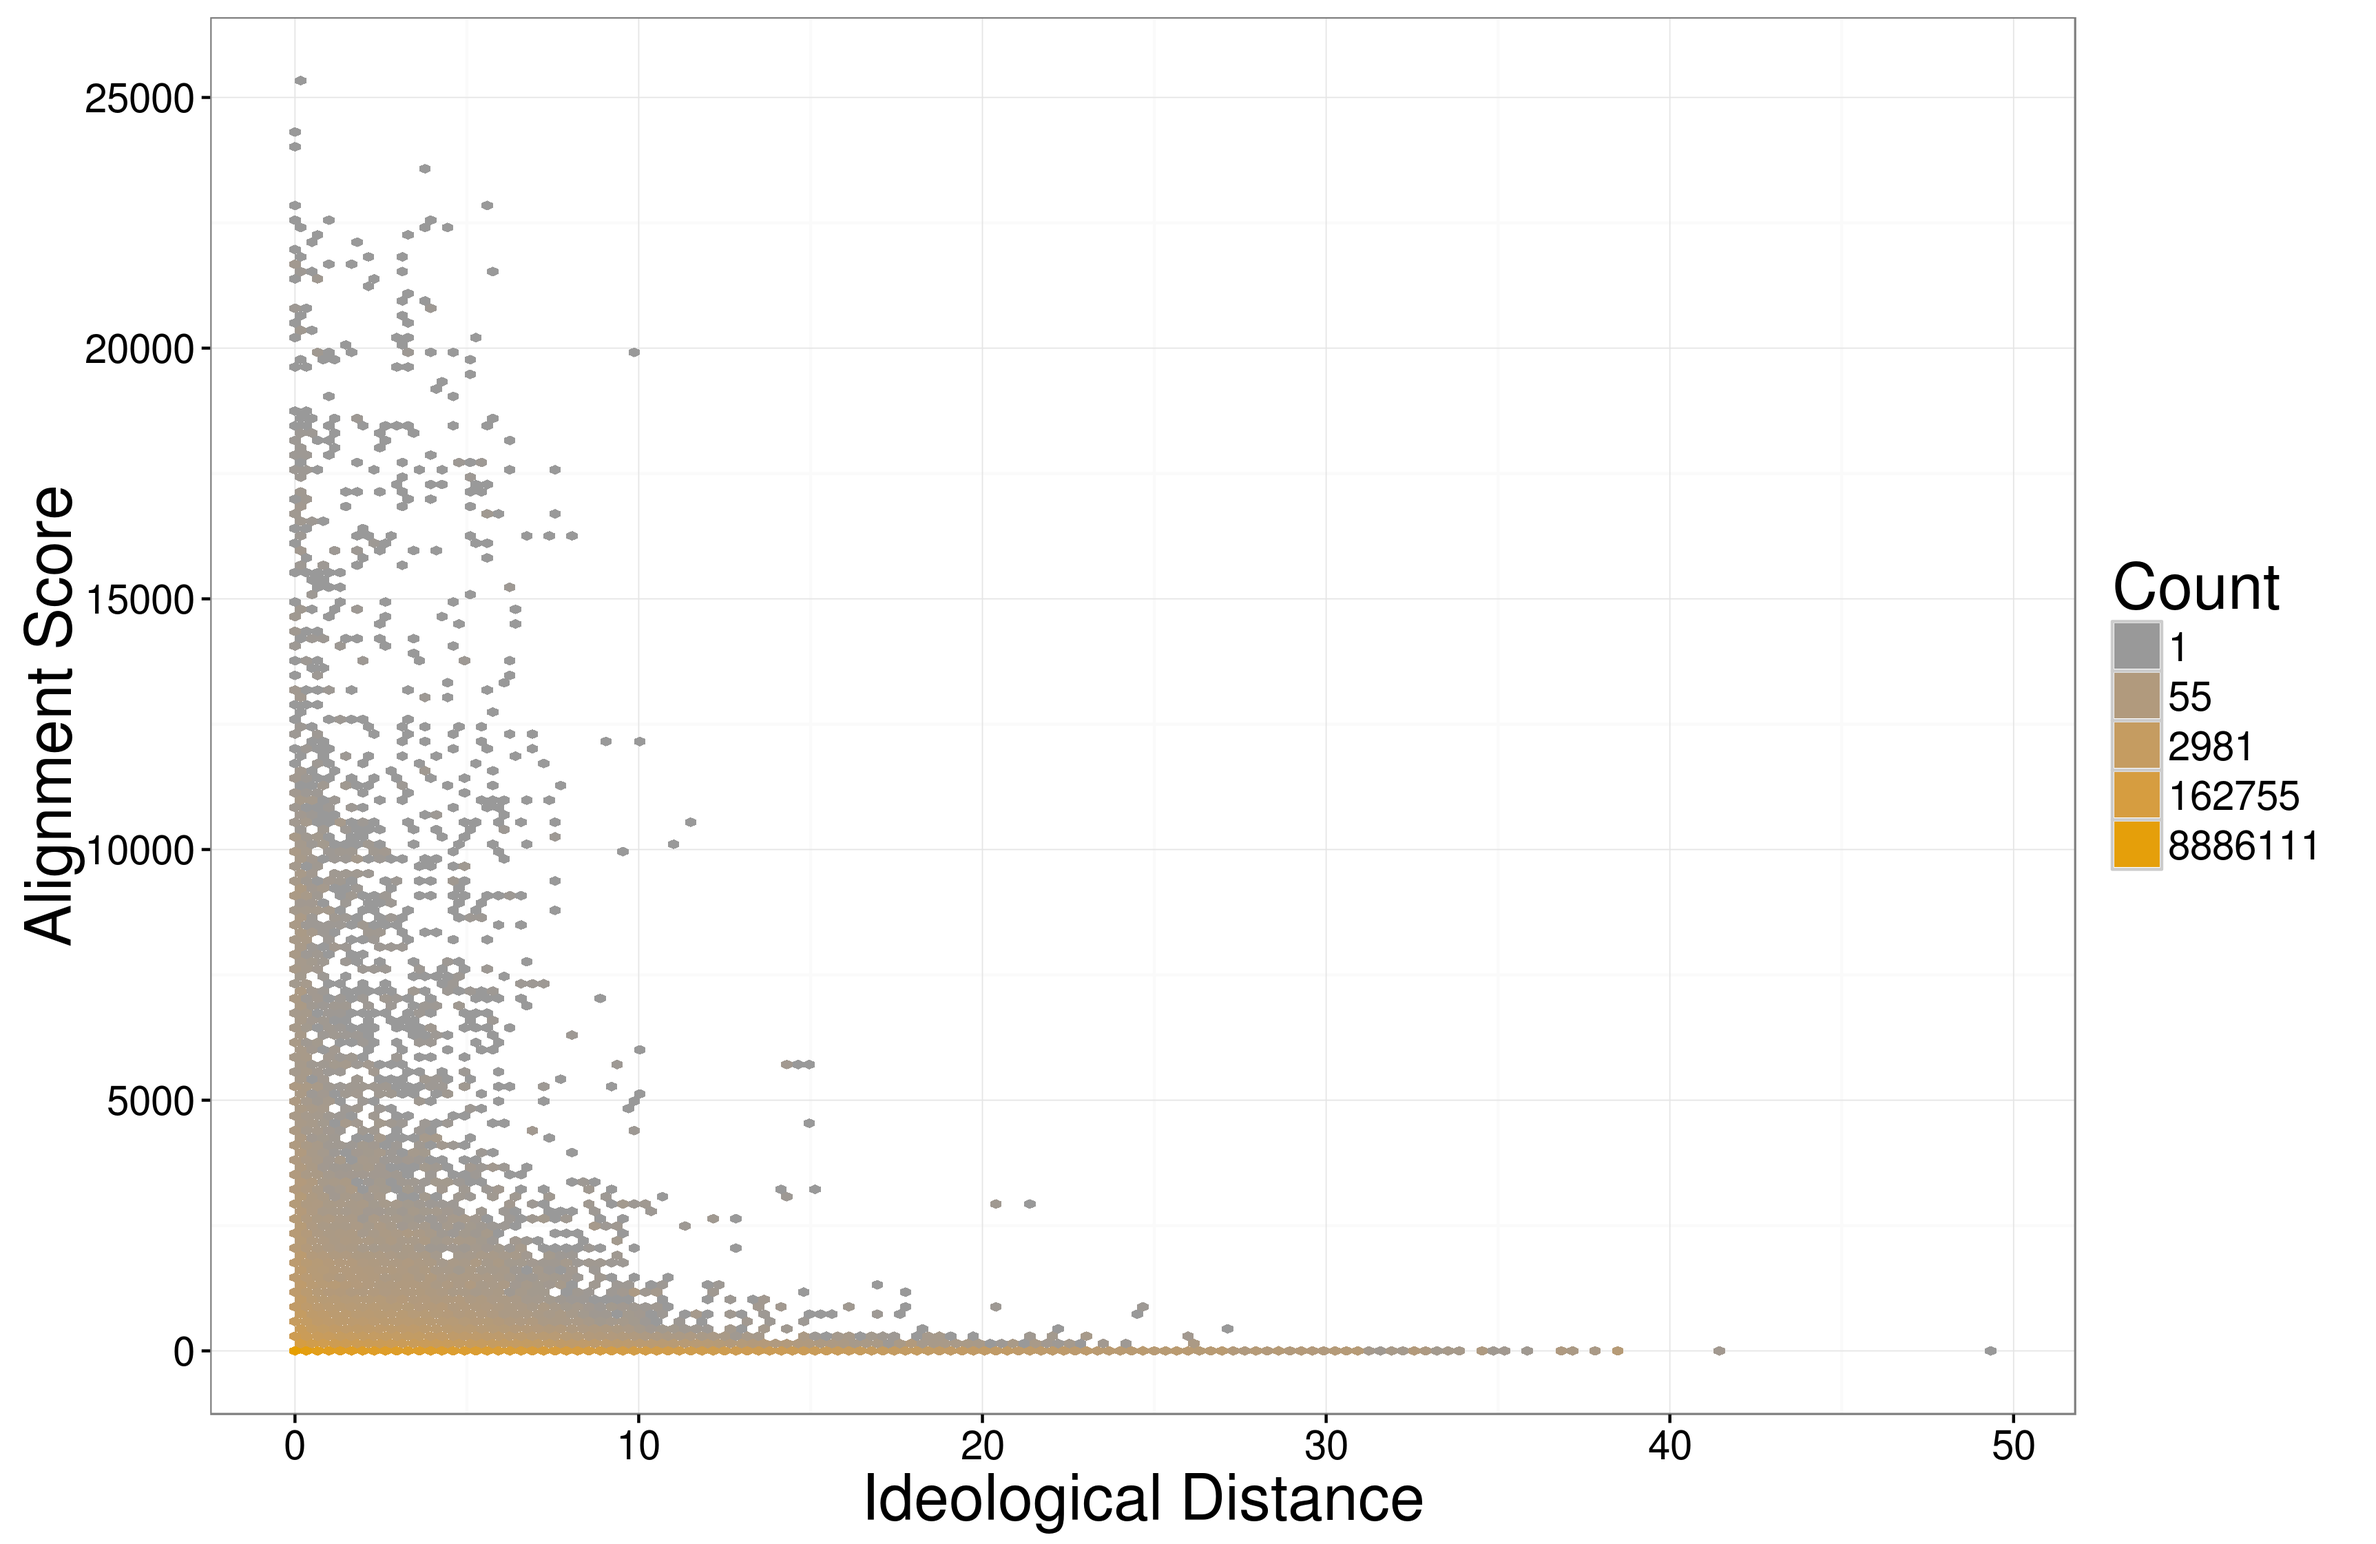
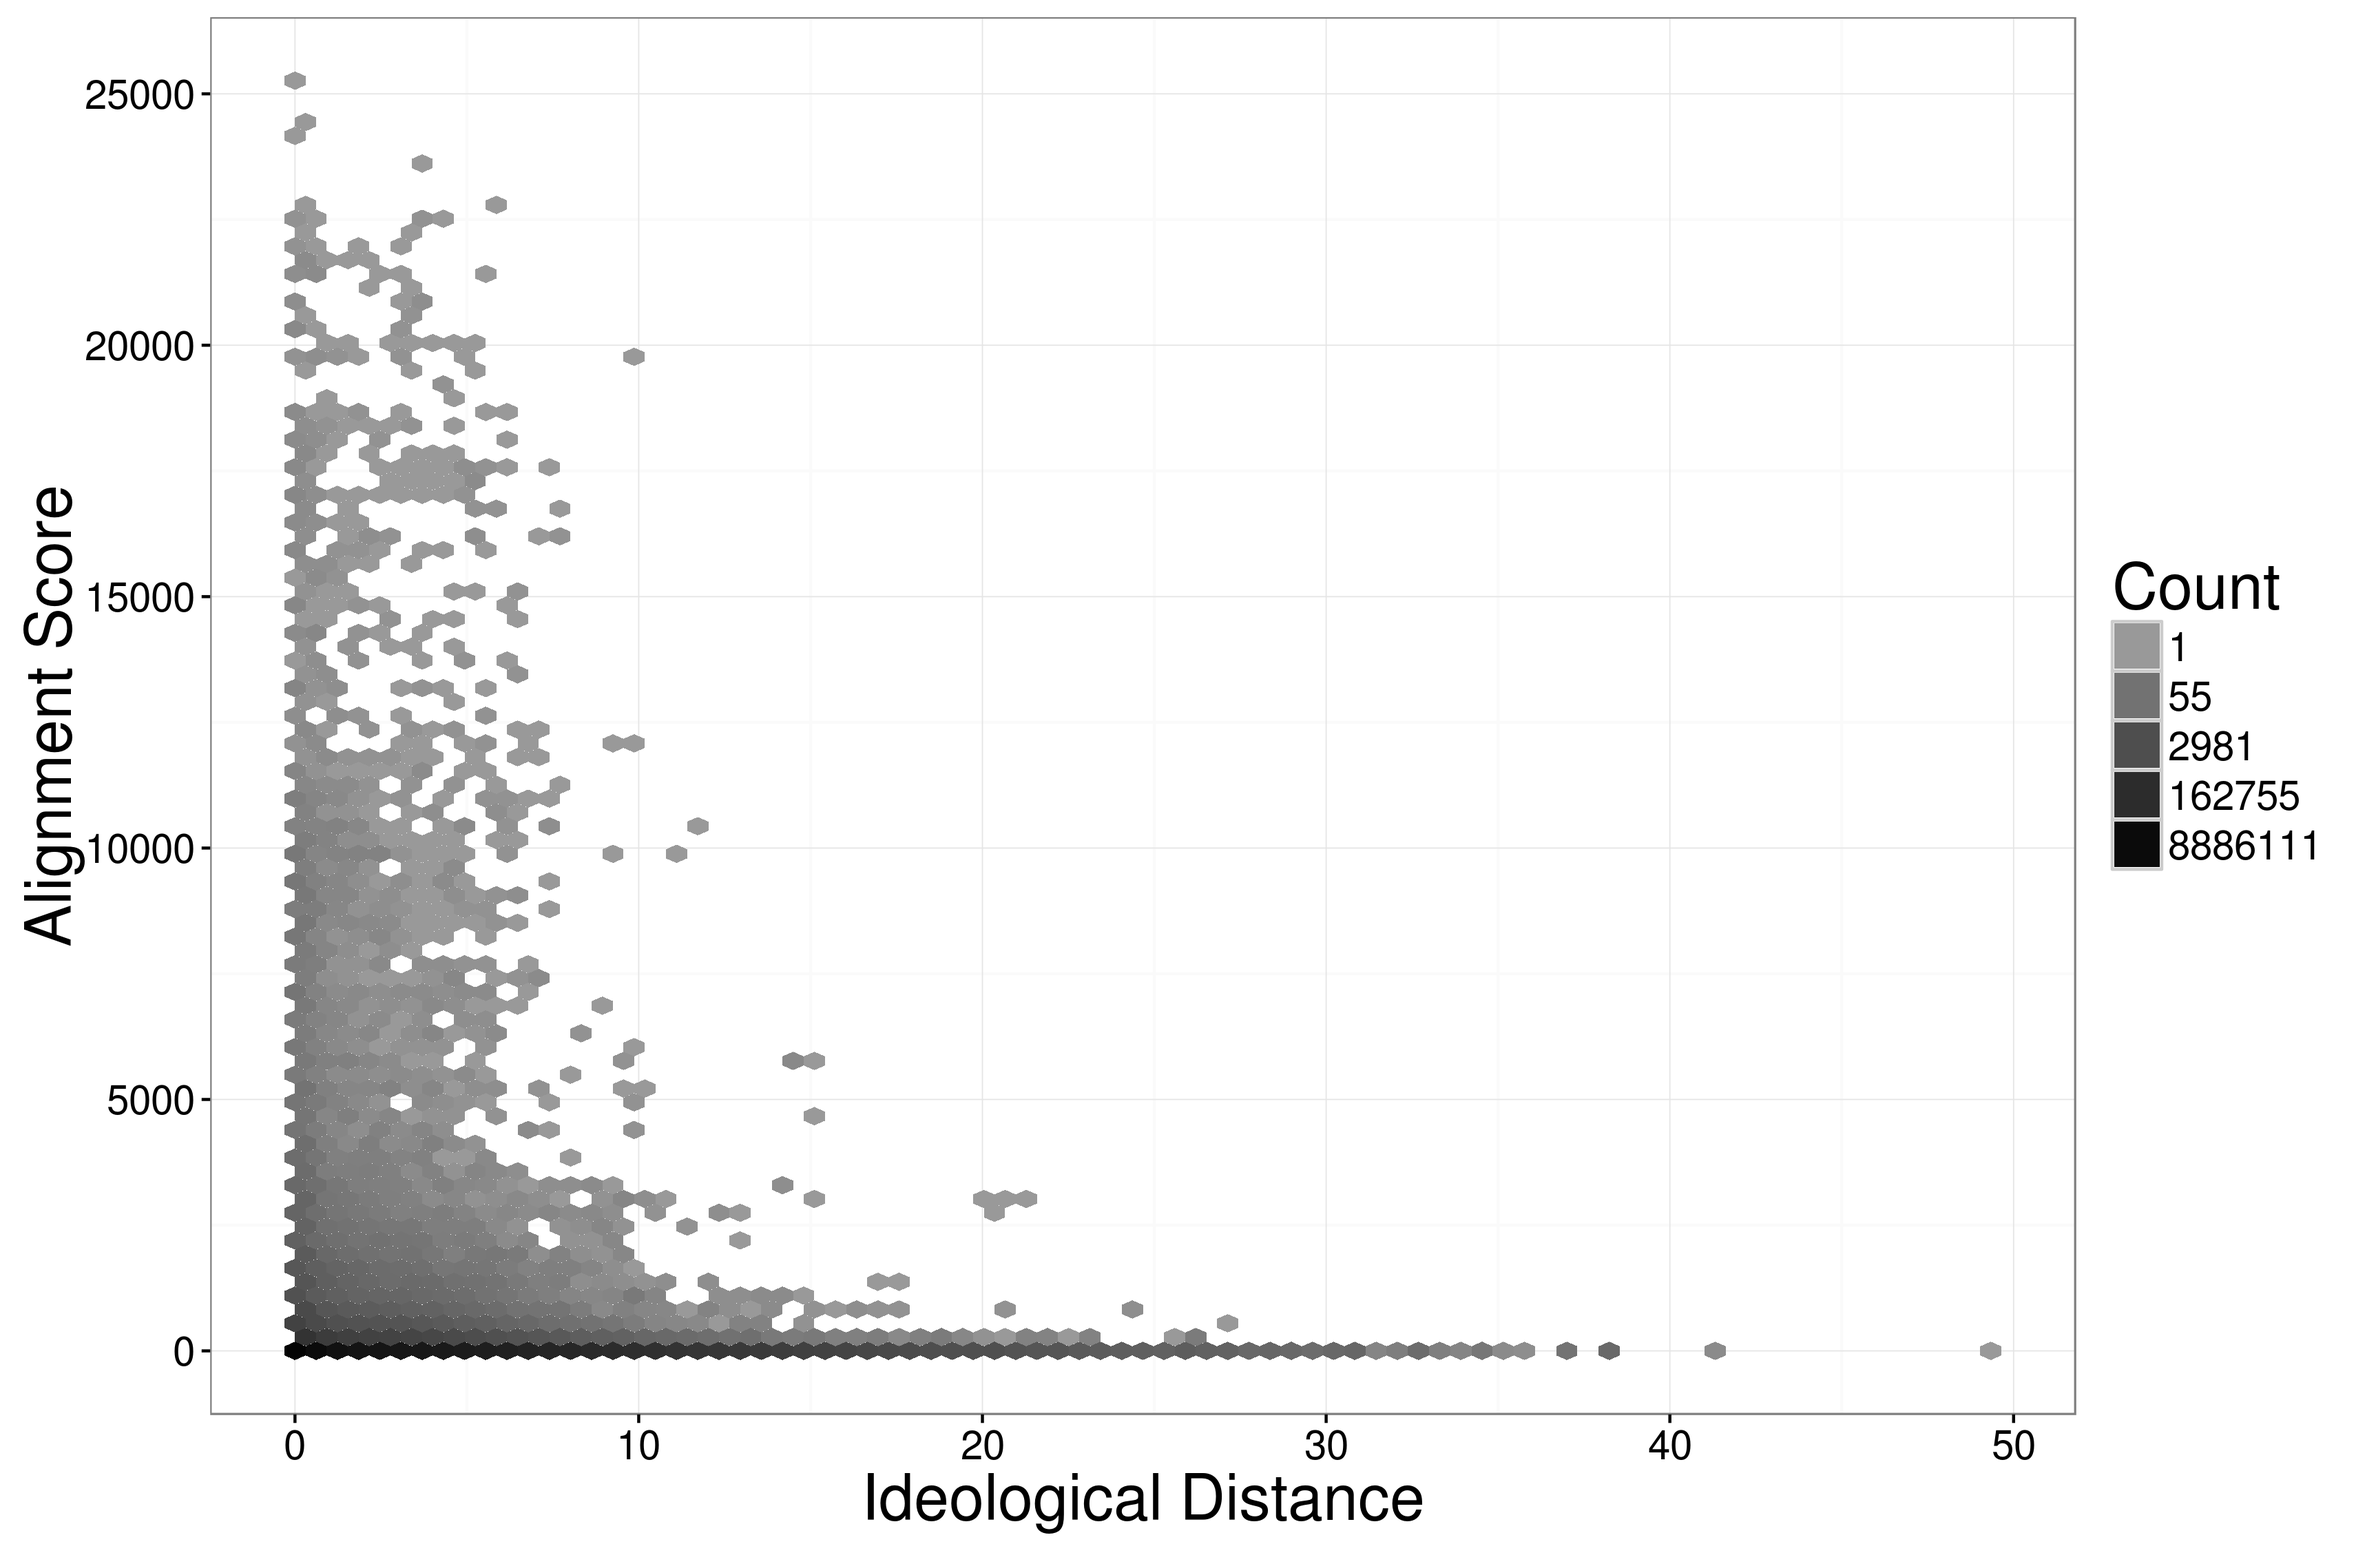
Plot updates (ncsl, ideology)
- Ideology plot in greyscale
- Added ideology plot with alignments on log scale
- Added ncsl cosine similarity plot
- Updated ncsl caption with linetypes

diff --git a/manuscript/main.tex b/manuscript/main.tex
@@ -23,7 +23,8 @@
 \usepackage{xcolor}
 \usepackage{soul}
 \usepackage{amsfonts}
-\usepackage{subfigure}
+%\usepackage{subfigure}
+\usepackage{subcaption}
 
 \def\citeapos#1{\citeauthor{#1}'s (\citeyear{#1})}
 
@@ -487,34 +488,37 @@ pairs and a random classifier. The first column contains the AUC values for each
 classifier. The remaining two columns display bootstrapped one-tailed p-values for the
 differences between the classifiers.Our results suggest that the presence of a large alignment score between bills is an effective indicator of policy similarity. 
 
-\begin{figure}
-\centering
-\includegraphics[width=0.8\textwidth]{figures/ncsl_pr_nosplit.png}
-\caption{Precision-Recall curve for classifying two bills being in the same
-    ncsl table by thresholding the bill-dyad alignment score. The x axis
+%\begin{figure}
+%\centering
+%\includegraphics[width=0.8\textwidth]{figures/ncsl_pr_nosplit.png}
+%\caption{Precision-Recall curve for classifying two bills being in the same
+%    ncsl table by thresholding the bill-dyad alignment score. The x axis
+%displays the threshold, the y axis represents precision and recall. The shaded
+%area in the background displays the frequency distribution of the alignment
+%scores.}
+%\label{fig:ncsl_prec_rec}
+%\end{figure}
+
+\begin{figure}[ht!]
+    \centering
+    \begin{subfigure}[t]{0.5\textwidth}
+        \centering
+        \includegraphics[width=\textwidth]{figures/ncsl_pr_nosplit.png}
+        \caption{Precision-Recall curve for classifier based on alignment scores.}
+    \end{subfigure}%
+    ~ 
+    \begin{subfigure}[t]{0.5\textwidth}
+        \centering
+        \includegraphics[width=\textwidth]{figures/ncsl_pr_cosm.png}
+        \caption{Precision-Recall curve for classifier based on cosine similarity.}
+    \end{subfigure}
+    \caption{Precision-Recall curve for classifying two bills being in the same
+    ncsl table by thresholding the bill-dyad alignment score. The dotted (yellow) line is recall, the solid (black) line is precision. The x axis
 displays the threshold, the y axis represents precision and recall. The shaded
 area in the background displays the frequency distribution of the alignment
 scores.}
 \label{fig:ncsl_prec_rec}
 \end{figure}
-
-
-%\begin{figure}[t!]
-%    \centering
-%    \begin{subfigure}[b]{0.5\textwidth}
-%        \centering
-%        \includegraphics[height=1.2in]{figures/ncsl_pr_nosplit.png}
-%        \caption{Lorem ipsum}
-%    \end{subfigure}%
-%    ~ 
-%    \begin{subfigure}[b]{0.5\textwidth}
-%        \centering
-%        \includegraphics[height=1.2in]{figures/ncsl_pr_cosim.png}
-%        \caption{Lorem ipsum, lorem ipsum,Lorem ipsum, lorem ipsum,Lorem ipsum}
-%    \end{subfigure}
-%    \caption{Caption place holder}
-%\end{figure}
-
 
 \subsection{Diffusion networks and Text re-use}
 
@@ -559,27 +563,52 @@ bills and $48*10^6$ ($38\%$) pairs of bills. In order to assess the validity of 
 
 In the following sections we present several analyses to assess this correlation. The ideal point of the bill is derived from the ideal point of the primary bill sponsor. For bills with several primary sponsors we use the average of those sponsors' ideal points to obtain a single measure. Figure \ref{fig:ideology_plot} displays the distribution of ideological distance and log-alignment score for the roughly 50 million dyads in the dataset. Each dot is a hexagonal tile, the color of the tile represents the number of dyads in that area. Two major observations can be made in this plot. First, the vast majority of alignment scores are close to zero. Second, the triangular shape of the distribution indicates the high precision - low recall character of the alignment score discussed above: few bills exhibit meaningful policy overlap with other bills, but in the region of lower ideological distance we observe a greater occurrence of positive outliers, which arise from significant policy overlap. 
 
+\begin{figure}[ht!]
+    \centering
+    \begin{subfigure}[t]{0.5\textwidth}
+        \centering
+        \includegraphics[width=\textwidth]{figures/ideology_plot.png}
+        \caption{Hexbin plot with alignments on natural scale.}
+    \end{subfigure}%
+    ~ 
+    \begin{subfigure}[t]{0.5\textwidth}
+        \centering
+        \includegraphics[width=\textwidth]{figures/ideology_plot_log.png}
+        \caption{Hexbin plot with alignments on $log_{10}$ scale.}
+    \end{subfigure}
+    \caption{Hexbin plot of alignment score and ideological distance of all 50
+    million bill-dyads. The shading of the bins indicates the density of data in
+    the bin.}
+    \label{fig:ideology_plot}
+\end{figure}
+
+
 In order to investigate this pattern more closely, we additionally calculate
 quantile regressions for the relationship between the alignment score and the
 ideological distance. In a quantile regression, the dependent variable is the value of the predicted quantile of the distribution of the dependent variable conditional on the independent variables (e.g., the predicted median for median regression with the quantile set to 0.50 \citep{harden2011linear}). Figure \ref{fig:quantile_regression} displays the
 coefficients from quantile regressions on a sequence of quantiles from the
-median to the 0.995th quantile. Confidence intervals are calculated by resampling bills, which represents an implementation of the clustered nonparametric bootstrap \citet[see e.g.][]{harden2011bootstrap}. Coefficients significant at the 95\% level are displayed in black, insignificant coefficients are grey. We see that there is only a very weak relationship between the ideological similarity of bill sponsors and the median alignment scores between bills. However, as the quantile we model increases we see that the relationship grows strong and negative in magnitude, and is statistically significant. These results both validate the use of text reuse as a measure of policy similarity, and reinforce the high precision and low recall nature of text reuse as a measure of policy similarity.
+median to the 0.995th quantile. Confidence intervals are calculated by
+resampling bills, which represents an implementation of the clustered
+nonparametric bootstrap \citep{harden2011bootstrap}. Coefficients significant at the 95\% level are displayed in black, insignificant coefficients are grey. We see that there is only a very weak relationship between the ideological similarity of bill sponsors and the median alignment scores between bills. However, as the quantile we model increases we see that the relationship grows strong and negative in magnitude, and is statistically significant. These results both validate the use of text reuse as a measure of policy similarity, and reinforce the high precision and low recall nature of text reuse as a measure of policy similarity.
 
 
-\begin{figure}[ht!]i
-    \centering
-    \includegraphics[width=0.8\textwidth]{figures/ideology_plot.png}
-    \caption{Hexbin plot of alignment score and ideological distance of all 50 million bill dyads.}
-    \label{fig:ideology_plot}
-\end{figure}
+%\begin{figure}[ht!]i
+%    \centering
+%    \includegraphics[width=0.8\textwidth]{figures/ideology_plot.png}
+%    \caption{Hexbin plot of alignment score and ideological distance of all 50
+%    million bill dyads. The shading of the bins indicates the density of data in
+%the bin.}
+%    \label{fig:ideology_plot}
+%\end{figure}
+
 
 \begin{figure}[ht!]
     \centering
     \includegraphics[width=0.8\textwidth]{figures/quantile_regression.png}
     \caption{Coefficients of quantile regression for alignment score on
     ideological distance. Dots indicate the point estimate. Horizontal bar
-represent 95\% confidence intervals obtained via the clustered bootstrap, [using
-1200 iterations]. Note that the x-axis is not in a natural scale}
+represent 95\% confidence intervals obtained with clustered bootstrap. 
+Note that the x-axis is not in a natural scale.}
     \label{fig:quantile_regression}
 \end{figure}
 
